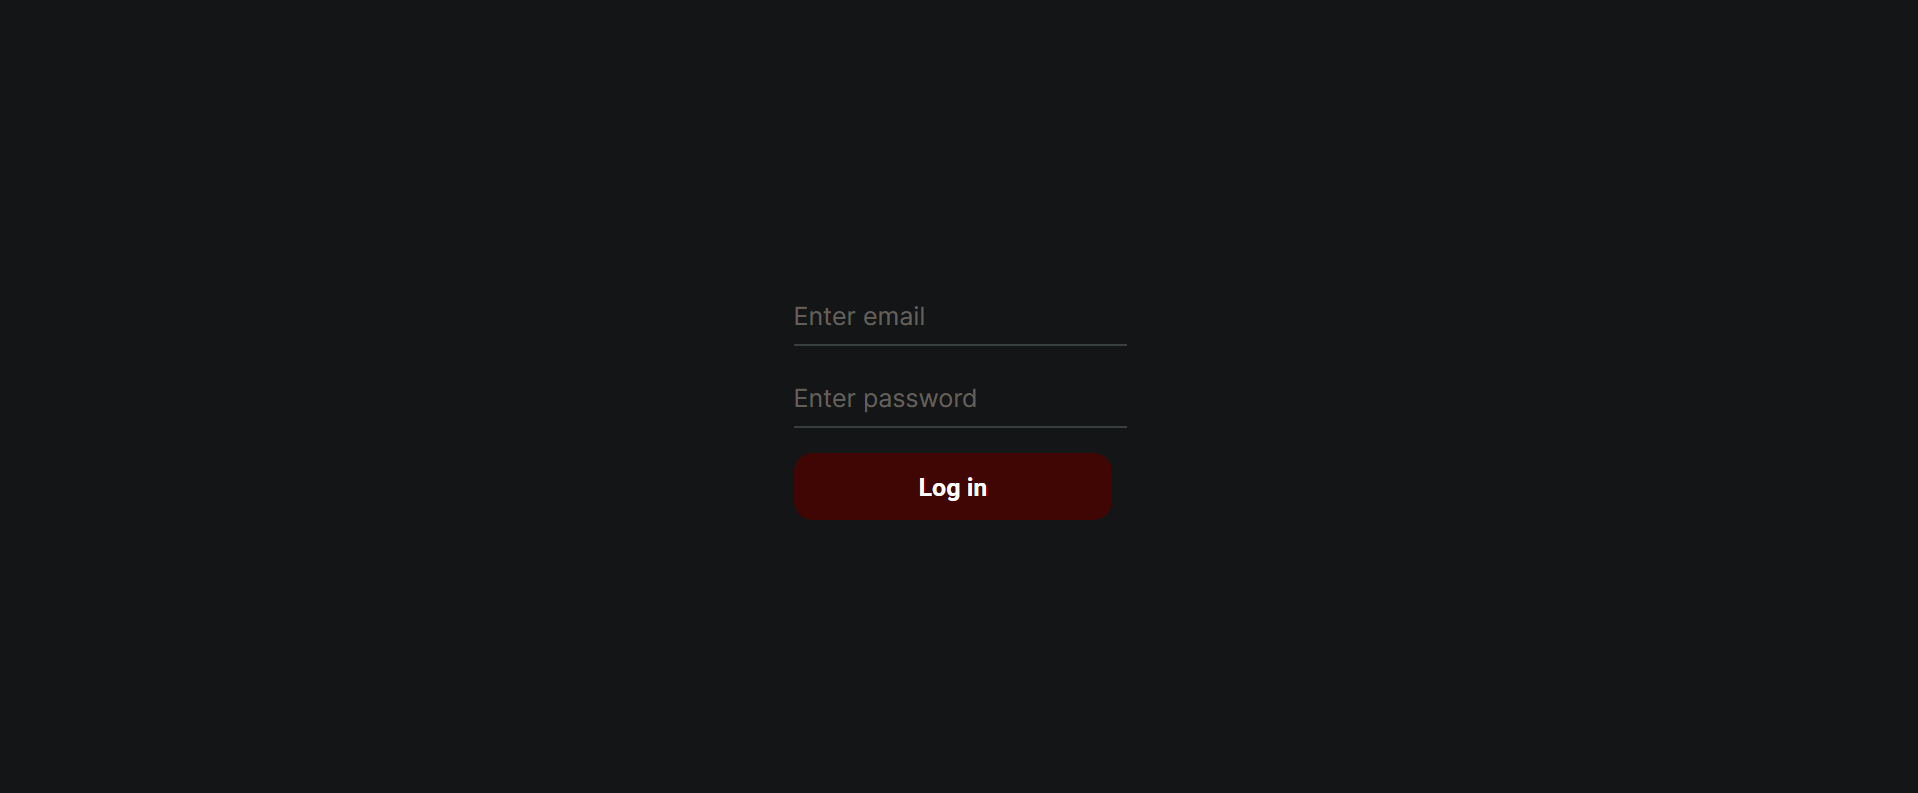
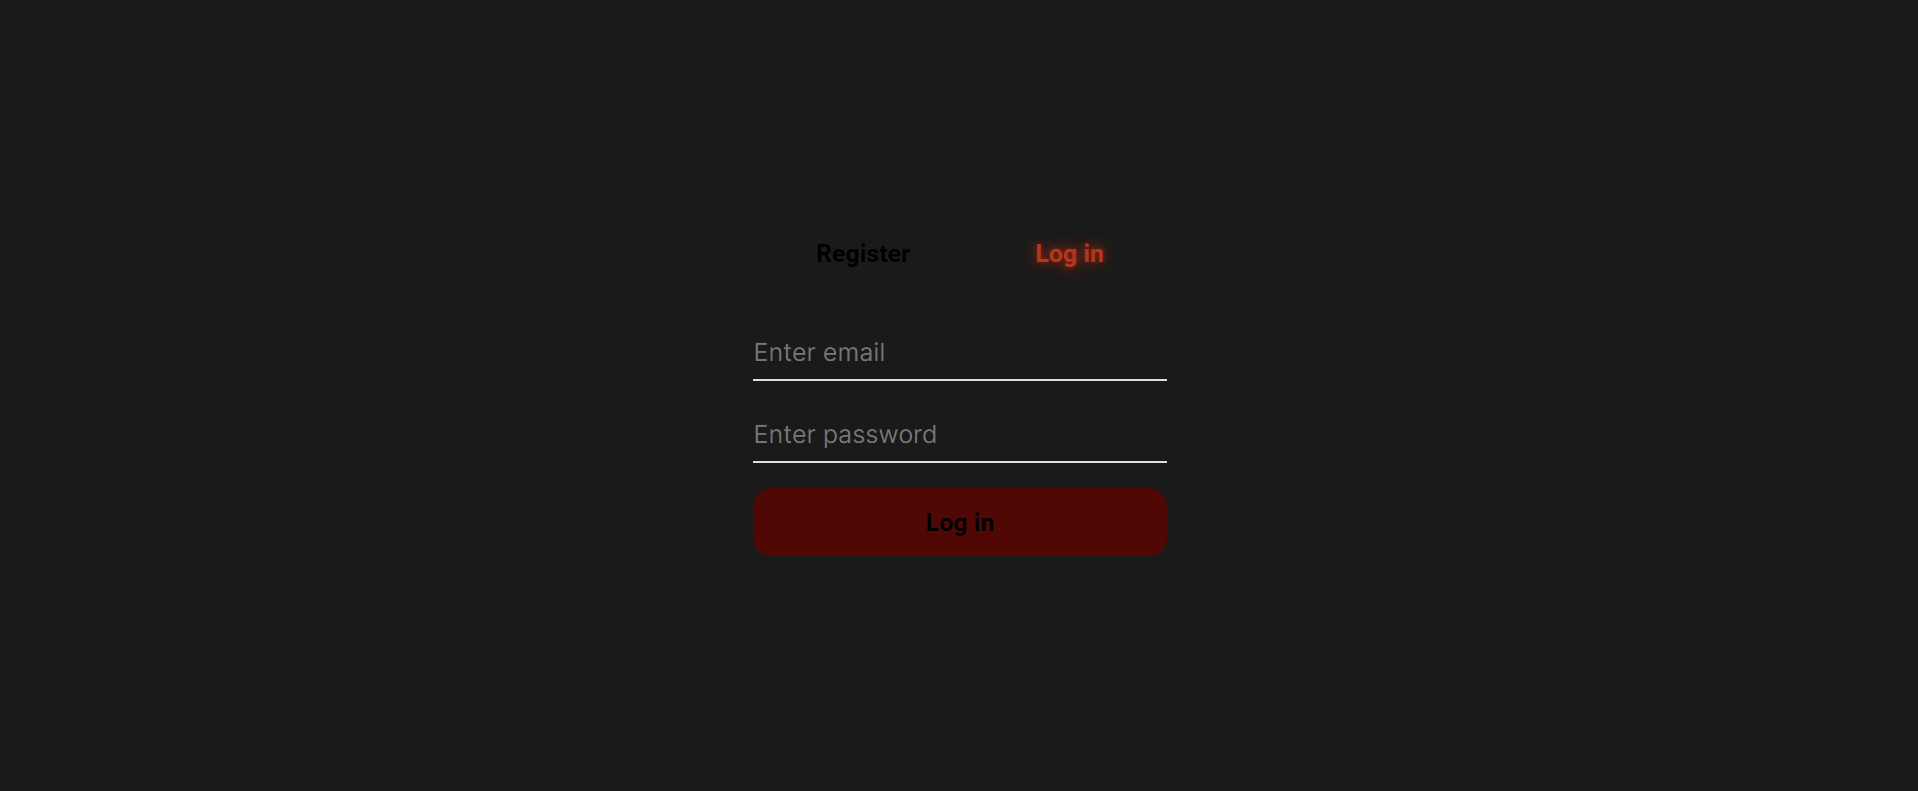
add registration and login

Changed region(s): [[0.3691, 0.3944, 0.6152, 0.7282], [0.5229, 0.3034, 0.5845, 0.3641]]

diff --git a/src/pages/Login.jsx b/src/pages/Login.jsx
@@ -1,4 +1,4 @@
-import React, {useContext} from 'react';
+import React, {useContext, useState} from 'react';
 import Button from '../components/UI/button/Button';
 import Input from '../components/UI/input/Input';
 import '../styles/Login.css'
@@ -7,32 +7,67 @@ import UserService from "../API/UserService";
 
 function Login() {
   const {isAuth, setIsAuth} = useContext(AuthContext);
-  
-  function login(event) {
-      var email = event.target[0].value
-      var password = event.target[1].value
+  const [mode, setMode] = useState('Log in');
+
+  function auth(event) {
+      var email = event.target[2].value
+      var password = event.target[3].value
+      var tokens;
       event.preventDefault();
-      const tokens = UserService.auth(email, password);
+
+      if (mode === 'Log in') {
+        tokens = UserService.auth(email, password)
+      }
+      else {
+        tokens = UserService.register(email, password)
+      }
       
-      console.log("auth", tokens)
-
-      tokens.then((token) => {
-        const access_token = token.access_token;
-        const refresh_token = token.refresh_token;
-
-        localStorage.setItem('access_token', access_token)
-        localStorage.setItem('refresh_token', refresh_token)
-        setIsAuth(true);
-    })
+      tokens.then((token_list) => {
+        if (token_list != null) {
+          console.log(mode, tokens)
+          const access_token = token_list.access_token;
+          const refresh_token = token_list.refresh_token;
+  
+          localStorage.setItem('access_token', access_token)
+          localStorage.setItem('refresh_token', refresh_token)
+          setIsAuth(true);
+        } else {
+          if (mode === 'Log in') setMode('Register')
+          else setMode('Log in')
+        }
+      })
+    
   }
-
 
   return (
     <div className="login-page">
-      <form onSubmit={login}>
-        <Input className="email" placeholder="Enter email"></Input>
+      <form className="login-form" onSubmit={auth}>
+        <div className='mode-table'>
+          <button 
+          className={`change-mode-button ${'Register' === mode ? 'active' : ''}`} 
+          onClick={(e) => {
+            e.preventDefault() 
+            setMode('Register')
+          }}
+          >
+            Register
+          </button>
+          <button 
+          className={`change-mode-button ${'Log in' === mode ? 'active' : ''}`} 
+          onClick={(e) => {
+            e.preventDefault() 
+            setMode('Log in')
+          }}
+          >
+            Log in
+          </button>
+        </div>
+        <Input className="email" placeholder="Enter email" type="text"></Input>
         <Input className="password" placeholder="Enter password" type="password"></Input>
-        <Button>Log in</Button>
+        <Button className="submit-button">
+          {mode}
+        </Button>
+
       </form>
     </div>
   );

diff --git a/src/API/UserService.jsx b/src/API/UserService.jsx
@@ -3,40 +3,49 @@ import axios from "axios";
 export default class UserService {
   
     static async register(user_email, user_password) {
-        const response = axios
-            .post(
-                "/auth/register", 
-            {
-                email: user_email,
-                password: user_password
-            },
-            
-            {
-                headers: {
-                    'Content-Type': "application/json"
-                }
-            });
-        return (await response).data
+        try {
+            const response = axios
+                .post(
+                    "/auth/register", 
+                {
+                    email: user_email,
+                    password: user_password
+                },
+                
+                {
+                    headers: {
+                        'Content-Type': "application/json"
+                    }
+                });
+            return (await response).data
+        } catch (error) {
+            return null
+        }
     }
 
     static async auth(user_email, user_password) {
-        let data = JSON.stringify({
-            "email": user_email,
-            "password": user_password
-          });
-          
-          let config = {
-            method: 'post',
-            maxBodyLength: Infinity,
-            url: '/auth/auth',
-            headers: { 
-              'Content-Type': 'application/json'
-            },
-            data : data
-          };
-          
-          const response = axios.request(config)
-          return (await response).data
+        try {
+            let data = JSON.stringify({
+                "email": user_email,
+                "password": user_password
+              });
+              
+              let config = {
+                method: 'post',
+                maxBodyLength: Infinity,
+                url: '/auth/auth',
+                headers: { 
+                  'Content-Type': 'application/json'
+                },
+                data : data
+              };
+              
+            const response = axios.request(config)
+            return (await response).data
+        } catch (error) {
+            return null
+        }
+        
     }
 
     static async refreshToken(token) {

diff --git a/src/styles/Login.css b/src/styles/Login.css
@@ -5,3 +5,30 @@
     justify-content: center;
     align-items: center;    
 }
+
+.mode-table {
+    display: flex;
+    flex-direction: row;
+    justify-content: space-between;
+    background: transparent;
+}
+
+.change-mode-button {
+    margin: 10px 0;
+    background: transparent;
+    text-align: center;
+    padding: 15px 50px;
+    font-size: 20px;
+    font-weight: 700;
+    font-family: roboto;
+    display: flex;
+}
+
+.change-mode-button.active {
+    color: #af3820;
+    text-shadow: 0 0 4px rgb(126, 30, 11), 0 0 12px #ae371f
+}
+
+.submit-button {
+    width: 100%;
+}

diff --git a/src/components/UI/button/Button.module.css b/src/components/UI/button/Button.module.css
@@ -1,15 +1,17 @@
 @import url('https://fonts.googleapis.com/css2?family=PT+Sans:ital,wght@0,400;0,700;1,400&family=Roboto:wght@400;700&display=swap');
 
 .btn {
+    display: flex;
+    justify-content: center;
+    align-items: center; 
+    width: 100%;   
     margin: 20px 0;
     border-radius: 15px;
     background: #500805;
-    text-align: center;
     padding: 15px 100px;
     font-size: 20px;
     font-weight: 700;
     font-family: roboto;
-    display: flex;
 }
 
 .btn:hover {
